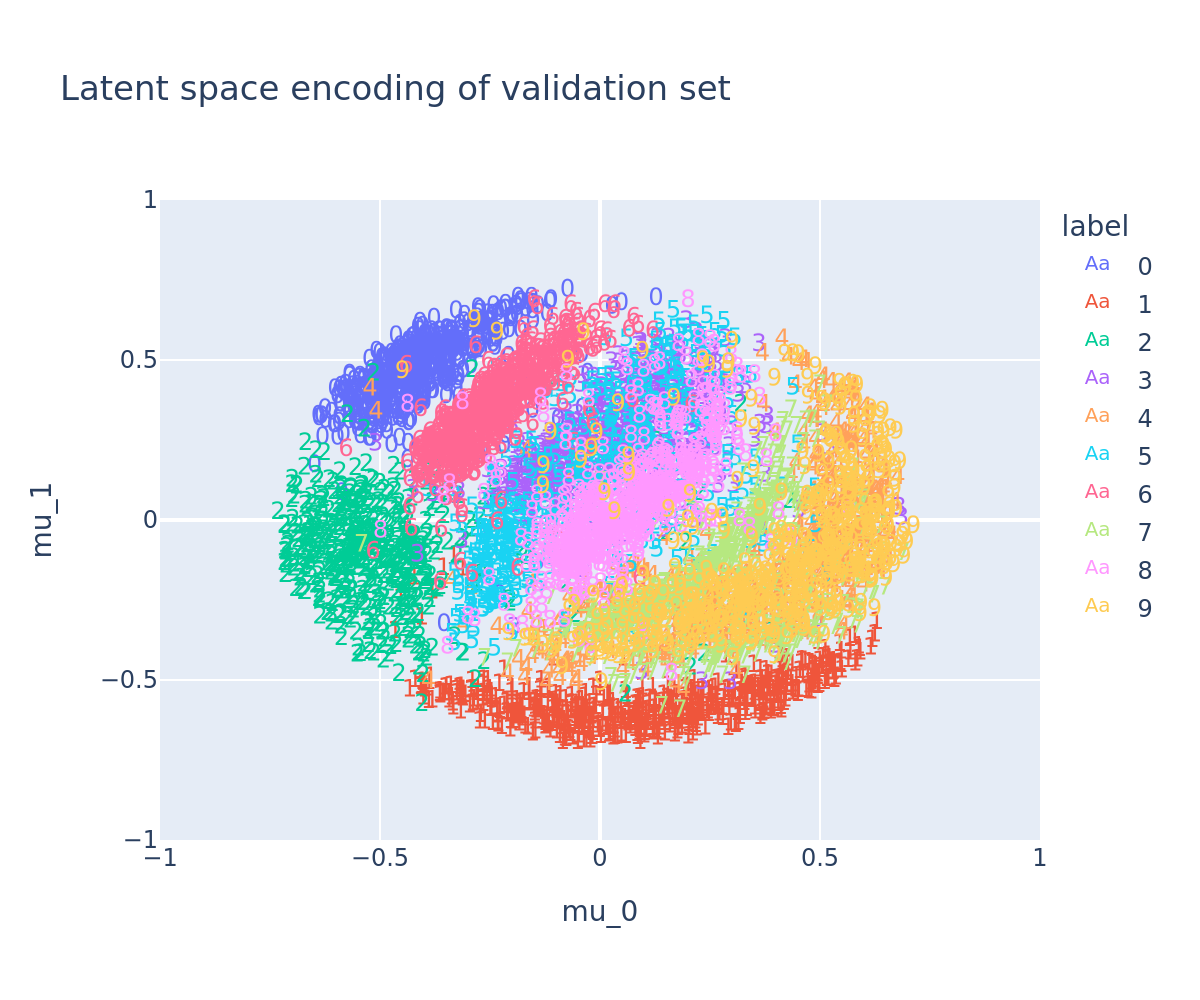
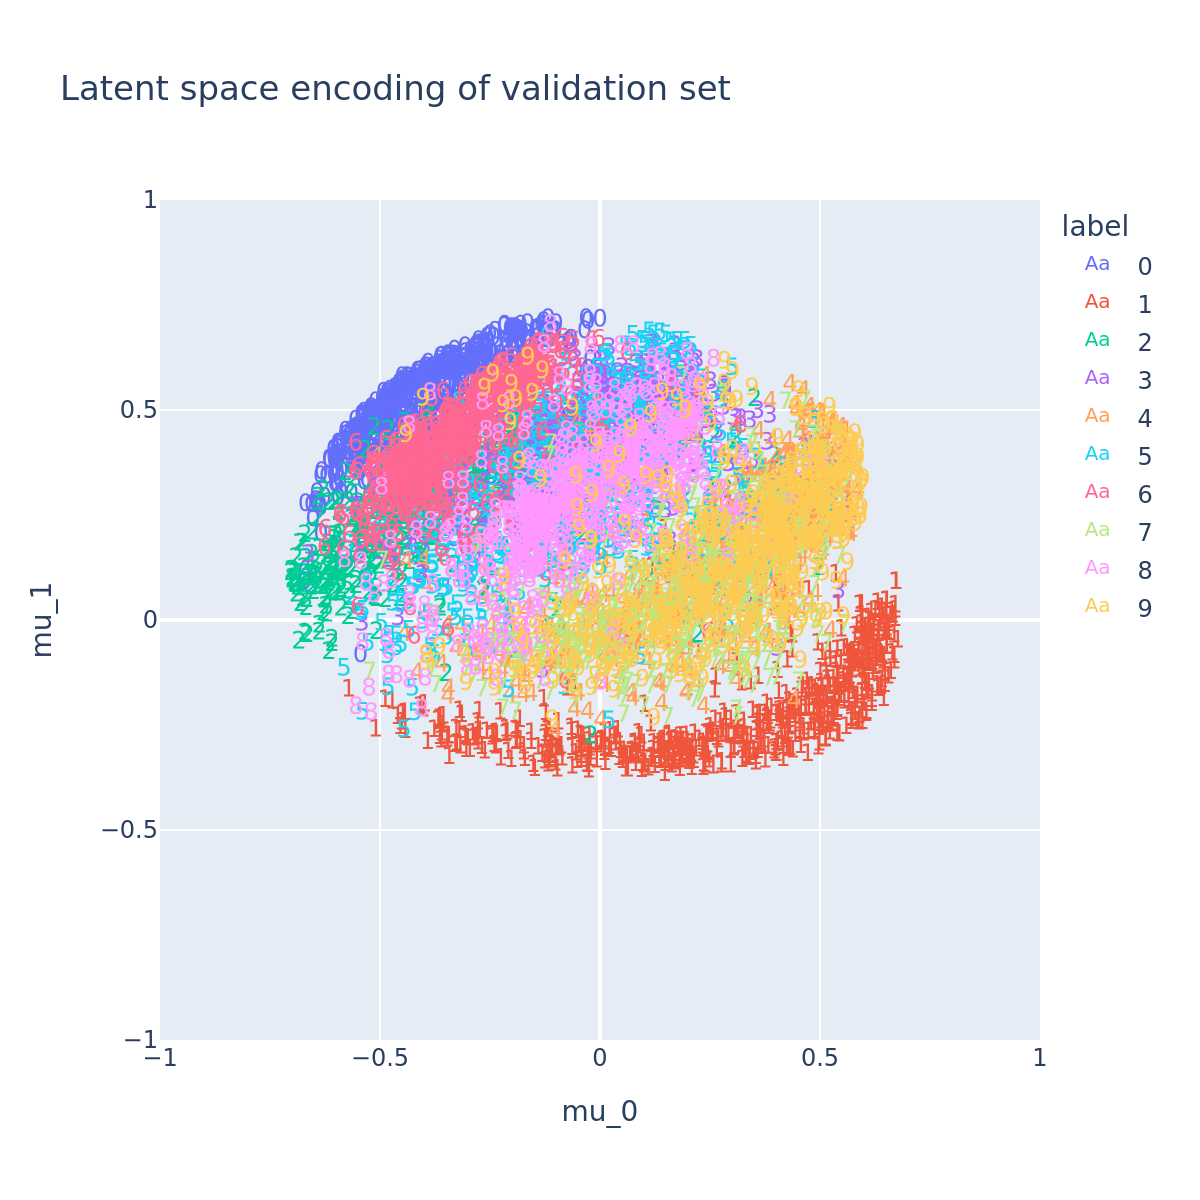
update figure in README

diff --git a/README.md b/README.md
@@ -4,4 +4,4 @@ Variational autoencoders with latent probability distributions defined on the hy
 
 Uses https://github.com/emilemathieu/pvae, with some minor modifications to work with recent versions of pytorch
 
-![Embeddings of MNIST digits](figures/latent_space_poincare_2d_mnist.png){height=250px width=300px}
+![Embeddings of MNIST digits](figures/latent_space_poincare_2_encmobius_decgyroplane_lossmse.png)
